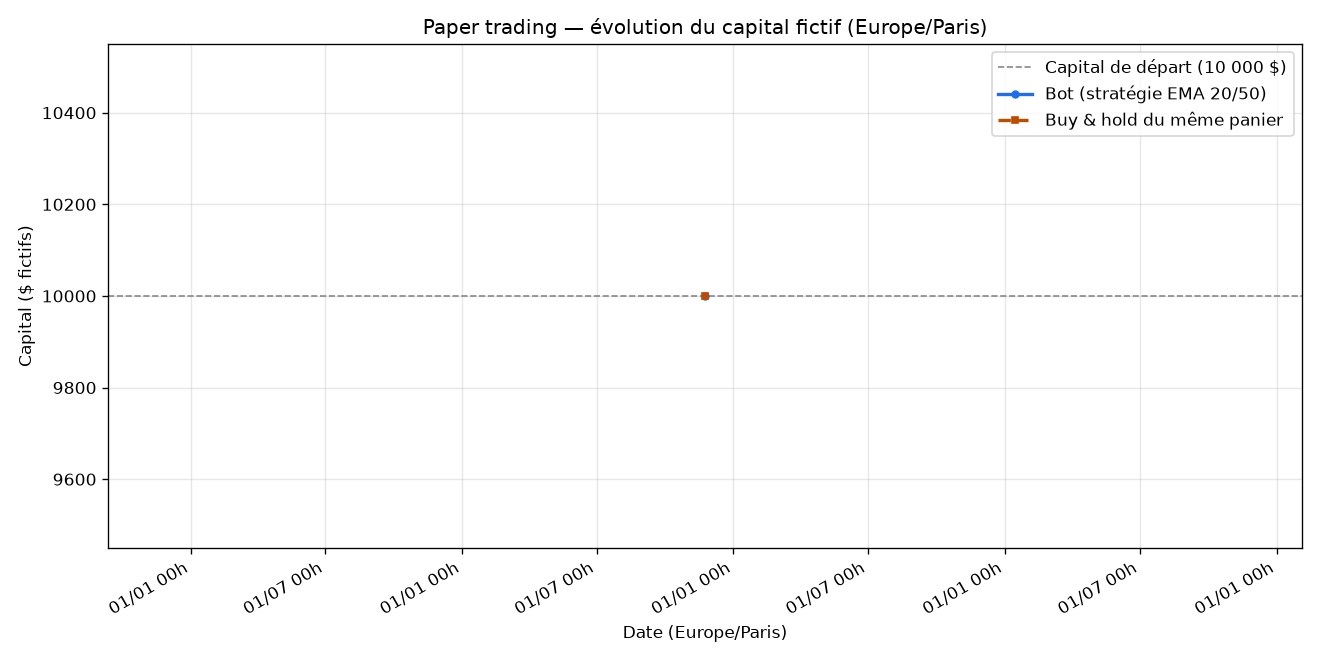
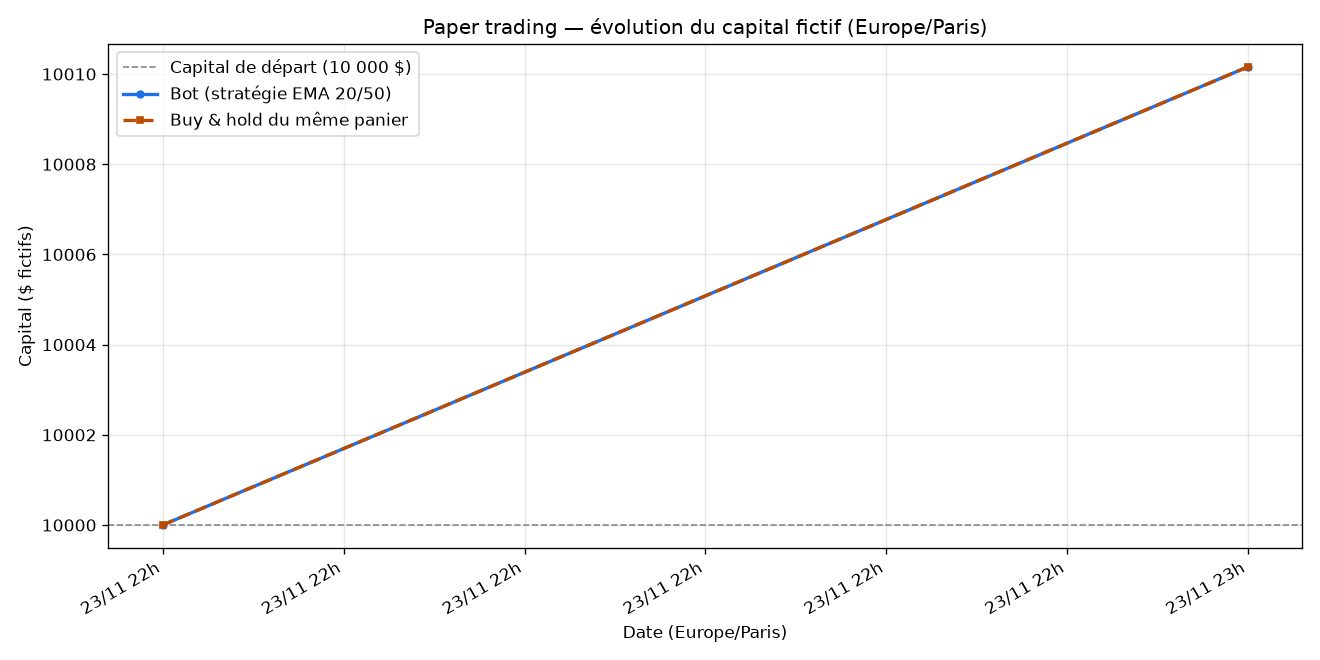
chore: update paper trading state [skip ci]

diff --git a/dashboard/index.html b/dashboard/index.html
@@ -138,7 +138,7 @@
 <body>
   <header>
     <h1>Paper bot — suivi du capital fictif</h1>
-    <p>Stratégie EMA 20/50, bougies 1h, long only · dernière bougie 2026-11-23T21:59:59+01:00 (Europe/Paris)</p>
+    <p>Stratégie EMA 20/50, bougies 1h, long only · dernière bougie 2026-11-23T22:59:59+01:00 (Europe/Paris)</p>
   </header>
   <div class="banner">
     Argent 100 % fictif — aucun compte, aucun ordre réel, aucune clé API.
@@ -148,18 +148,18 @@
     <section class="kpis">
       <div class="card">
         <p class="label">Capital actuel</p>
-        <p class="value">10 000.00 $</p>
+        <p class="value">10 010.16 $</p>
         <p class="sub">sur 10 000.00 $ de départ</p>
       </div>
       <div class="card">
         <p class="label">P&amp;L du bot</p>
-        <p class="value neutral">+0.00 $</p>
-        <p class="sub neutral">+0.00 %</p>
+        <p class="value up">+10.16 $</p>
+        <p class="sub up">+0.10 %</p>
       </div>
       <div class="card">
         <p class="label">Buy &amp; hold (même panier)</p>
-        <p class="value">10 000.00 $</p>
-        <p class="sub neutral">+0.00 $ depuis le départ</p>
+        <p class="value">10 010.16 $</p>
+        <p class="sub up">+10.16 $ depuis le départ</p>
       </div>
       <div class="card">
         <p class="label">Bot vs buy &amp; hold</p>
@@ -170,7 +170,7 @@
 
     <section class="card" style="margin-bottom:18px">
       <h2>Évolution du capital vs buy-and-hold</h2>
-      <div class="chart-wrap"><svg viewBox="0 0 920 340" width="100%" role="img" aria-label="Courbe du capital fictif du bot vs buy-and-hold"><rect x="0" y="0" width="920" height="340" rx="12" fill="#ffffff"/><line x1="64" y1="288.0" x2="900" y2="288.0" stroke="#e4e8ec" stroke-width="1"/><line x1="64" y1="221.0" x2="900" y2="221.0" stroke="#e4e8ec" stroke-width="1"/><line x1="64" y1="154.0" x2="900" y2="154.0" stroke="#e4e8ec" stroke-width="1"/><line x1="64" y1="87.0" x2="900" y2="87.0" stroke="#e4e8ec" stroke-width="1"/><line x1="64" y1="20.0" x2="900" y2="20.0" stroke="#e4e8ec" stroke-width="1"/><line x1="64" y1="154.0" x2="900" y2="154.0" stroke="#8b95a0" stroke-width="1.2" stroke-dasharray="5 4"/><text x="54" y="288.0" text-anchor="end" dominant-baseline="middle" fill="#5c6770" font-size="11" font-family="system-ui sans-serif">9 994</text><text x="54" y="221.0" text-anchor="end" dominant-baseline="middle" fill="#5c6770" font-size="11" font-family="system-ui sans-serif">9 997</text><text x="54" y="154.0" text-anchor="end" dominant-baseline="middle" fill="#5c6770" font-size="11" font-family="system-ui sans-serif">10 000</text><text x="54" y="87.0" text-anchor="end" dominant-baseline="middle" fill="#5c6770" font-size="11" font-family="system-ui sans-serif">10 003</text><text x="54" y="20.0" text-anchor="end" dominant-baseline="middle" fill="#5c6770" font-size="11" font-family="system-ui sans-serif">10 006</text><path d="M482.0,154.0" fill="none" stroke="#bc4c00" stroke-width="2.2" stroke-dasharray="7 5"/><path d="M482.0,154.0" fill="none" stroke="#1f6feb" stroke-width="2.5"/><circle cx="482.0" cy="154.0" r="3.2" fill="#1f6feb"/><text x="482.0" y="322" text-anchor="middle" fill="#5c6770" font-size="11" font-family="system-ui,sans-serif">23/11 21h</text><g font-family="system-ui,sans-serif" font-size="12"><line x1="64" y1="334" x2="86" y2="334" stroke="#1f6feb" stroke-width="2.5"/><text x="92" y="338" fill="#1a2330">Bot (EMA 20/50)</text><line x1="224" y1="334" x2="246" y2="334" stroke="#bc4c00" stroke-width="2.5" stroke-dasharray="6 4"/><text x="252" y="338" fill="#1a2330">Buy &amp; hold du même panier</text><line x1="464" y1="334" x2="486" y2="334" stroke="#8b95a0" stroke-width="1.2" stroke-dasharray="5 4"/><text x="492" y="338" fill="#1a2330">Capital de départ (10 000 $)</text></g></svg></div>
+      <div class="chart-wrap"><svg viewBox="0 0 920 340" width="100%" role="img" aria-label="Courbe du capital fictif du bot vs buy-and-hold"><rect x="0" y="0" width="920" height="340" rx="12" fill="#ffffff"/><line x1="64" y1="288.0" x2="900" y2="288.0" stroke="#e4e8ec" stroke-width="1"/><line x1="64" y1="221.0" x2="900" y2="221.0" stroke="#e4e8ec" stroke-width="1"/><line x1="64" y1="154.0" x2="900" y2="154.0" stroke="#e4e8ec" stroke-width="1"/><line x1="64" y1="87.0" x2="900" y2="87.0" stroke="#e4e8ec" stroke-width="1"/><line x1="64" y1="20.0" x2="900" y2="20.0" stroke="#e4e8ec" stroke-width="1"/><line x1="64" y1="262.1" x2="900" y2="262.1" stroke="#8b95a0" stroke-width="1.2" stroke-dasharray="5 4"/><text x="54" y="288.0" text-anchor="end" dominant-baseline="middle" fill="#5c6770" font-size="11" font-family="system-ui sans-serif">9 999</text><text x="54" y="221.0" text-anchor="end" dominant-baseline="middle" fill="#5c6770" font-size="11" font-family="system-ui sans-serif">10 002</text><text x="54" y="154.0" text-anchor="end" dominant-baseline="middle" fill="#5c6770" font-size="11" font-family="system-ui sans-serif">10 005</text><text x="54" y="87.0" text-anchor="end" dominant-baseline="middle" fill="#5c6770" font-size="11" font-family="system-ui sans-serif">10 008</text><text x="54" y="20.0" text-anchor="end" dominant-baseline="middle" fill="#5c6770" font-size="11" font-family="system-ui sans-serif">10 011</text><path d="M64.0,262.1 L900.0,45.9" fill="none" stroke="#bc4c00" stroke-width="2.2" stroke-dasharray="7 5"/><path d="M64.0,262.1 L900.0,45.9" fill="none" stroke="#1f6feb" stroke-width="2.5"/><circle cx="64.0" cy="262.1" r="3.2" fill="#1f6feb"/><circle cx="900.0" cy="45.9" r="3.2" fill="#1f6feb"/><text x="64.0" y="322" text-anchor="middle" fill="#5c6770" font-size="11" font-family="system-ui,sans-serif">23/11 21h</text><text x="900.0" y="322" text-anchor="middle" fill="#5c6770" font-size="11" font-family="system-ui,sans-serif">23/11 22h</text><g font-family="system-ui,sans-serif" font-size="12"><line x1="64" y1="334" x2="86" y2="334" stroke="#1f6feb" stroke-width="2.5"/><text x="92" y="338" fill="#1a2330">Bot (EMA 20/50)</text><line x1="224" y1="334" x2="246" y2="334" stroke="#bc4c00" stroke-width="2.5" stroke-dasharray="6 4"/><text x="252" y="338" fill="#1a2330">Buy &amp; hold du même panier</text><line x1="464" y1="334" x2="486" y2="334" stroke="#8b95a0" stroke-width="1.2" stroke-dasharray="5 4"/><text x="492" y="338" fill="#1a2330">Capital de départ (10 000 $)</text></g></svg></div>
     </section>
 
     <section class="card" style="margin-bottom:18px">
@@ -190,7 +190,7 @@
             </tr>
           </thead>
           <tbody>
-            <tr><td><strong>BTCUSDT</strong></td><td><span class='pill open'>En position</span></td><td class='num'>61236.010000</td><td class='num'>0.01633026</td><td class='num'>1 000.00 $</td><td class='num up'>+0.00 $</td><td class='num up'>+0.00 %</td><td class='muted'>Entrée 61236.010000 le 2026-11-23T21:59:59+01:00</td></tr><tr><td><strong>ETHUSDT</strong></td><td><span class='pill open'>En position</span></td><td class='num'>1725.360000</td><td class='num'>0.57958919</td><td class='num'>1 000.00 $</td><td class='num down'>-0.00 $</td><td class='num down'>-0.00 %</td><td class='muted'>Entrée 1725.360000 le 2026-11-23T21:59:59+01:00</td></tr><tr><td><strong>SOLUSDT</strong></td><td><span class='pill open'>En position</span></td><td class='num'>72.820000</td><td class='num'>13.73249107</td><td class='num'>1 000.00 $</td><td class='num neutral'>+0.00 $</td><td class='num neutral'>+0.00 %</td><td class='muted'>Entrée 72.820000 le 2026-11-23T21:59:59+01:00</td></tr><tr><td><strong>BNBUSDT</strong></td><td><span class='pill open'>En position</span></td><td class='num'>557.030000</td><td class='num'>1.79523545</td><td class='num'>1 000.00 $</td><td class='num neutral'>+0.00 $</td><td class='num neutral'>+0.00 %</td><td class='muted'>Entrée 557.030000 le 2026-11-23T21:59:59+01:00</td></tr><tr><td><strong>XRPUSDT</strong></td><td><span class='pill open'>En position</span></td><td class='num'>0.937400</td><td class='num'>1066.78045658</td><td class='num'>1 000.00 $</td><td class='num neutral'>+0.00 $</td><td class='num neutral'>+0.00 %</td><td class='muted'>Entrée 0.937400 le 2026-11-23T21:59:59+01:00</td></tr><tr><td><strong>ADAUSDT</strong></td><td><span class='pill open'>En position</span></td><td class='num'>0.147600</td><td class='num'>6775.06775068</td><td class='num'>1 000.00 $</td><td class='num neutral'>+0.00 $</td><td class='num neutral'>+0.00 %</td><td class='muted'>Entrée 0.147600 le 2026-11-23T21:59:59+01:00</td></tr><tr><td><strong>DOGEUSDT</strong></td><td><span class='pill open'>En position</span></td><td class='num'>0.056590</td><td class='num'>17670.96660187</td><td class='num'>1 000.00 $</td><td class='num neutral'>+0.00 $</td><td class='num neutral'>+0.00 %</td><td class='muted'>Entrée 0.056590 le 2026-11-23T21:59:59+01:00</td></tr><tr><td><strong>AVAXUSDT</strong></td><td><span class='pill open'>En position</span></td><td class='num'>6.793000</td><td class='num'>147.21036361</td><td class='num'>1 000.00 $</td><td class='num neutral'>+0.00 $</td><td class='num neutral'>+0.00 %</td><td class='muted'>Entrée 6.793000 le 2026-11-23T21:59:59+01:00</td></tr><tr><td><strong>LINKUSDT</strong></td><td><span class='pill open'>En position</span></td><td class='num'>8.987000</td><td class='num'>111.27183710</td><td class='num'>1 000.00 $</td><td class='num neutral'>+0.00 $</td><td class='num neutral'>+0.00 %</td><td class='muted'>Entrée 8.987000 le 2026-11-23T21:59:59+01:00</td></tr><tr><td><strong>DOTUSDT</strong></td><td><span class='pill open'>En position</span></td><td class='num'>0.685000</td><td class='num'>1459.85401460</td><td class='num'>1 000.00 $</td><td class='num neutral'>+0.00 $</td><td class='num neutral'>+0.00 %</td><td class='muted'>Entrée 0.685000 le 2026-11-23T21:59:59+01:00</td></tr>
+            <tr><td><strong>BTCUSDT</strong></td><td><span class='pill open'>En position</span></td><td class='num'>61342.540000</td><td class='num'>0.01633026</td><td class='num'>1 001.74 $</td><td class='num up'>+1.74 $</td><td class='num up'>+0.17 %</td><td class='muted'>Entrée 61236.010000 le 2026-11-23T21:59:59+01:00</td></tr><tr><td><strong>ETHUSDT</strong></td><td><span class='pill open'>En position</span></td><td class='num'>1724.290000</td><td class='num'>0.57958919</td><td class='num'>999.38 $</td><td class='num down'>-0.62 $</td><td class='num down'>-0.06 %</td><td class='muted'>Entrée 1725.360000 le 2026-11-23T21:59:59+01:00</td></tr><tr><td><strong>SOLUSDT</strong></td><td><span class='pill open'>En position</span></td><td class='num'>72.390000</td><td class='num'>13.73249107</td><td class='num'>994.10 $</td><td class='num down'>-5.90 $</td><td class='num down'>-0.59 %</td><td class='muted'>Entrée 72.820000 le 2026-11-23T21:59:59+01:00</td></tr><tr><td><strong>BNBUSDT</strong></td><td><span class='pill open'>En position</span></td><td class='num'>557.610000</td><td class='num'>1.79523545</td><td class='num'>1 001.04 $</td><td class='num up'>+1.04 $</td><td class='num up'>+0.10 %</td><td class='muted'>Entrée 557.030000 le 2026-11-23T21:59:59+01:00</td></tr><tr><td><strong>XRPUSDT</strong></td><td><span class='pill open'>En position</span></td><td class='num'>0.942600</td><td class='num'>1066.78045658</td><td class='num'>1 005.55 $</td><td class='num up'>+5.55 $</td><td class='num up'>+0.55 %</td><td class='muted'>Entrée 0.937400 le 2026-11-23T21:59:59+01:00</td></tr><tr><td><strong>ADAUSDT</strong></td><td><span class='pill open'>En position</span></td><td class='num'>0.148120</td><td class='num'>6775.06775068</td><td class='num'>1 003.52 $</td><td class='num up'>+3.52 $</td><td class='num up'>+0.35 %</td><td class='muted'>Entrée 0.147600 le 2026-11-23T21:59:59+01:00</td></tr><tr><td><strong>DOGEUSDT</strong></td><td><span class='pill open'>En position</span></td><td class='num'>0.056590</td><td class='num'>17670.96660187</td><td class='num'>1 000.00 $</td><td class='num neutral'>+0.00 $</td><td class='num neutral'>+0.00 %</td><td class='muted'>Entrée 0.056590 le 2026-11-23T21:59:59+01:00</td></tr><tr><td><strong>AVAXUSDT</strong></td><td><span class='pill open'>En position</span></td><td class='num'>6.816000</td><td class='num'>147.21036361</td><td class='num'>1 003.39 $</td><td class='num up'>+3.39 $</td><td class='num up'>+0.34 %</td><td class='muted'>Entrée 6.793000 le 2026-11-23T21:59:59+01:00</td></tr><tr><td><strong>LINKUSDT</strong></td><td><span class='pill open'>En position</span></td><td class='num'>9.000000</td><td class='num'>111.27183710</td><td class='num'>1 001.45 $</td><td class='num up'>+1.45 $</td><td class='num up'>+0.14 %</td><td class='muted'>Entrée 8.987000 le 2026-11-23T21:59:59+01:00</td></tr><tr><td><strong>DOTUSDT</strong></td><td><span class='pill open'>En position</span></td><td class='num'>0.685000</td><td class='num'>1459.85401460</td><td class='num'>1 000.00 $</td><td class='num neutral'>+0.00 $</td><td class='num neutral'>+0.00 %</td><td class='muted'>Entrée 0.685000 le 2026-11-23T21:59:59+01:00</td></tr>
           </tbody>
         </table>
       </div>
@@ -230,11 +230,11 @@
         </div>
         <div>
           <dt>Dernière bougie traitée</dt>
-          <dd>2026-11-23T21:59:59+01:00</dd>
+          <dd>2026-11-23T22:59:59+01:00</dd>
         </div>
         <div>
           <dt>Dernier passage du bot</dt>
-          <dd>2026-11-23T22:40:13+01:00</dd>
+          <dd>2026-11-23T23:01:03+01:00</dd>
         </div>
         <div>
           <dt>Source des prix</dt>
@@ -246,7 +246,7 @@
         </div>
       </dl>
       <p class="muted" style="margin:8px 0 0">Moyennes mobiles exponentielles 20 et 50 sur bougies d&#x27;une heure, positions longues uniquement, sans effet de levier. Achat si EMA20 &gt; EMA50 et qu&#x27;on n&#x27;est pas déjà investi (y compris si la tendance est déjà haussière, pas seulement sur un nouveau croisement). Vente si EMA20 &lt; EMA50. Sans frais (0 %). Décisions prises à la clôture de la bougie 1h, au prix de clôture.</p>
-      <p class="muted" style="margin:8px 0 0">api.binance.com renvoyait HTTP 451 (restriction géographique) ; repli sur api.binance.us, endpoint public /api/v3/klines, sans clé API.</p>
+      <p class="muted" style="margin:8px 0 0">api.binance.com renvoyait HTTP 451 (restriction géographique) ; source principale : api.binance.us, endpoint public /api/v3/klines, sans clé API. Repli : api.binance.com, puis Kraken public OHLC (intervalle 60 min).</p>
     </section>
 
     <footer>

diff --git a/docs/index.html b/docs/index.html
@@ -138,7 +138,7 @@
 <body>
   <header>
     <h1>Paper bot — suivi du capital fictif</h1>
-    <p>Stratégie EMA 20/50, bougies 1h, long only · dernière bougie 2026-11-23T21:59:59+01:00 (Europe/Paris)</p>
+    <p>Stratégie EMA 20/50, bougies 1h, long only · dernière bougie 2026-11-23T22:59:59+01:00 (Europe/Paris)</p>
   </header>
   <div class="banner">
     Argent 100 % fictif — aucun compte, aucun ordre réel, aucune clé API.
@@ -148,18 +148,18 @@
     <section class="kpis">
       <div class="card">
         <p class="label">Capital actuel</p>
-        <p class="value">10 000.00 $</p>
+        <p class="value">10 010.16 $</p>
         <p class="sub">sur 10 000.00 $ de départ</p>
       </div>
       <div class="card">
         <p class="label">P&amp;L du bot</p>
-        <p class="value neutral">+0.00 $</p>
-        <p class="sub neutral">+0.00 %</p>
+        <p class="value up">+10.16 $</p>
+        <p class="sub up">+0.10 %</p>
       </div>
       <div class="card">
         <p class="label">Buy &amp; hold (même panier)</p>
-        <p class="value">10 000.00 $</p>
-        <p class="sub neutral">+0.00 $ depuis le départ</p>
+        <p class="value">10 010.16 $</p>
+        <p class="sub up">+10.16 $ depuis le départ</p>
       </div>
       <div class="card">
         <p class="label">Bot vs buy &amp; hold</p>
@@ -170,7 +170,7 @@
 
     <section class="card" style="margin-bottom:18px">
       <h2>Évolution du capital vs buy-and-hold</h2>
-      <div class="chart-wrap"><svg viewBox="0 0 920 340" width="100%" role="img" aria-label="Courbe du capital fictif du bot vs buy-and-hold"><rect x="0" y="0" width="920" height="340" rx="12" fill="#ffffff"/><line x1="64" y1="288.0" x2="900" y2="288.0" stroke="#e4e8ec" stroke-width="1"/><line x1="64" y1="221.0" x2="900" y2="221.0" stroke="#e4e8ec" stroke-width="1"/><line x1="64" y1="154.0" x2="900" y2="154.0" stroke="#e4e8ec" stroke-width="1"/><line x1="64" y1="87.0" x2="900" y2="87.0" stroke="#e4e8ec" stroke-width="1"/><line x1="64" y1="20.0" x2="900" y2="20.0" stroke="#e4e8ec" stroke-width="1"/><line x1="64" y1="154.0" x2="900" y2="154.0" stroke="#8b95a0" stroke-width="1.2" stroke-dasharray="5 4"/><text x="54" y="288.0" text-anchor="end" dominant-baseline="middle" fill="#5c6770" font-size="11" font-family="system-ui sans-serif">9 994</text><text x="54" y="221.0" text-anchor="end" dominant-baseline="middle" fill="#5c6770" font-size="11" font-family="system-ui sans-serif">9 997</text><text x="54" y="154.0" text-anchor="end" dominant-baseline="middle" fill="#5c6770" font-size="11" font-family="system-ui sans-serif">10 000</text><text x="54" y="87.0" text-anchor="end" dominant-baseline="middle" fill="#5c6770" font-size="11" font-family="system-ui sans-serif">10 003</text><text x="54" y="20.0" text-anchor="end" dominant-baseline="middle" fill="#5c6770" font-size="11" font-family="system-ui sans-serif">10 006</text><path d="M482.0,154.0" fill="none" stroke="#bc4c00" stroke-width="2.2" stroke-dasharray="7 5"/><path d="M482.0,154.0" fill="none" stroke="#1f6feb" stroke-width="2.5"/><circle cx="482.0" cy="154.0" r="3.2" fill="#1f6feb"/><text x="482.0" y="322" text-anchor="middle" fill="#5c6770" font-size="11" font-family="system-ui,sans-serif">23/11 21h</text><g font-family="system-ui,sans-serif" font-size="12"><line x1="64" y1="334" x2="86" y2="334" stroke="#1f6feb" stroke-width="2.5"/><text x="92" y="338" fill="#1a2330">Bot (EMA 20/50)</text><line x1="224" y1="334" x2="246" y2="334" stroke="#bc4c00" stroke-width="2.5" stroke-dasharray="6 4"/><text x="252" y="338" fill="#1a2330">Buy &amp; hold du même panier</text><line x1="464" y1="334" x2="486" y2="334" stroke="#8b95a0" stroke-width="1.2" stroke-dasharray="5 4"/><text x="492" y="338" fill="#1a2330">Capital de départ (10 000 $)</text></g></svg></div>
+      <div class="chart-wrap"><svg viewBox="0 0 920 340" width="100%" role="img" aria-label="Courbe du capital fictif du bot vs buy-and-hold"><rect x="0" y="0" width="920" height="340" rx="12" fill="#ffffff"/><line x1="64" y1="288.0" x2="900" y2="288.0" stroke="#e4e8ec" stroke-width="1"/><line x1="64" y1="221.0" x2="900" y2="221.0" stroke="#e4e8ec" stroke-width="1"/><line x1="64" y1="154.0" x2="900" y2="154.0" stroke="#e4e8ec" stroke-width="1"/><line x1="64" y1="87.0" x2="900" y2="87.0" stroke="#e4e8ec" stroke-width="1"/><line x1="64" y1="20.0" x2="900" y2="20.0" stroke="#e4e8ec" stroke-width="1"/><line x1="64" y1="262.1" x2="900" y2="262.1" stroke="#8b95a0" stroke-width="1.2" stroke-dasharray="5 4"/><text x="54" y="288.0" text-anchor="end" dominant-baseline="middle" fill="#5c6770" font-size="11" font-family="system-ui sans-serif">9 999</text><text x="54" y="221.0" text-anchor="end" dominant-baseline="middle" fill="#5c6770" font-size="11" font-family="system-ui sans-serif">10 002</text><text x="54" y="154.0" text-anchor="end" dominant-baseline="middle" fill="#5c6770" font-size="11" font-family="system-ui sans-serif">10 005</text><text x="54" y="87.0" text-anchor="end" dominant-baseline="middle" fill="#5c6770" font-size="11" font-family="system-ui sans-serif">10 008</text><text x="54" y="20.0" text-anchor="end" dominant-baseline="middle" fill="#5c6770" font-size="11" font-family="system-ui sans-serif">10 011</text><path d="M64.0,262.1 L900.0,45.9" fill="none" stroke="#bc4c00" stroke-width="2.2" stroke-dasharray="7 5"/><path d="M64.0,262.1 L900.0,45.9" fill="none" stroke="#1f6feb" stroke-width="2.5"/><circle cx="64.0" cy="262.1" r="3.2" fill="#1f6feb"/><circle cx="900.0" cy="45.9" r="3.2" fill="#1f6feb"/><text x="64.0" y="322" text-anchor="middle" fill="#5c6770" font-size="11" font-family="system-ui,sans-serif">23/11 21h</text><text x="900.0" y="322" text-anchor="middle" fill="#5c6770" font-size="11" font-family="system-ui,sans-serif">23/11 22h</text><g font-family="system-ui,sans-serif" font-size="12"><line x1="64" y1="334" x2="86" y2="334" stroke="#1f6feb" stroke-width="2.5"/><text x="92" y="338" fill="#1a2330">Bot (EMA 20/50)</text><line x1="224" y1="334" x2="246" y2="334" stroke="#bc4c00" stroke-width="2.5" stroke-dasharray="6 4"/><text x="252" y="338" fill="#1a2330">Buy &amp; hold du même panier</text><line x1="464" y1="334" x2="486" y2="334" stroke="#8b95a0" stroke-width="1.2" stroke-dasharray="5 4"/><text x="492" y="338" fill="#1a2330">Capital de départ (10 000 $)</text></g></svg></div>
     </section>
 
     <section class="card" style="margin-bottom:18px">
@@ -190,7 +190,7 @@
             </tr>
           </thead>
           <tbody>
-            <tr><td><strong>BTCUSDT</strong></td><td><span class='pill open'>En position</span></td><td class='num'>61236.010000</td><td class='num'>0.01633026</td><td class='num'>1 000.00 $</td><td class='num up'>+0.00 $</td><td class='num up'>+0.00 %</td><td class='muted'>Entrée 61236.010000 le 2026-11-23T21:59:59+01:00</td></tr><tr><td><strong>ETHUSDT</strong></td><td><span class='pill open'>En position</span></td><td class='num'>1725.360000</td><td class='num'>0.57958919</td><td class='num'>1 000.00 $</td><td class='num down'>-0.00 $</td><td class='num down'>-0.00 %</td><td class='muted'>Entrée 1725.360000 le 2026-11-23T21:59:59+01:00</td></tr><tr><td><strong>SOLUSDT</strong></td><td><span class='pill open'>En position</span></td><td class='num'>72.820000</td><td class='num'>13.73249107</td><td class='num'>1 000.00 $</td><td class='num neutral'>+0.00 $</td><td class='num neutral'>+0.00 %</td><td class='muted'>Entrée 72.820000 le 2026-11-23T21:59:59+01:00</td></tr><tr><td><strong>BNBUSDT</strong></td><td><span class='pill open'>En position</span></td><td class='num'>557.030000</td><td class='num'>1.79523545</td><td class='num'>1 000.00 $</td><td class='num neutral'>+0.00 $</td><td class='num neutral'>+0.00 %</td><td class='muted'>Entrée 557.030000 le 2026-11-23T21:59:59+01:00</td></tr><tr><td><strong>XRPUSDT</strong></td><td><span class='pill open'>En position</span></td><td class='num'>0.937400</td><td class='num'>1066.78045658</td><td class='num'>1 000.00 $</td><td class='num neutral'>+0.00 $</td><td class='num neutral'>+0.00 %</td><td class='muted'>Entrée 0.937400 le 2026-11-23T21:59:59+01:00</td></tr><tr><td><strong>ADAUSDT</strong></td><td><span class='pill open'>En position</span></td><td class='num'>0.147600</td><td class='num'>6775.06775068</td><td class='num'>1 000.00 $</td><td class='num neutral'>+0.00 $</td><td class='num neutral'>+0.00 %</td><td class='muted'>Entrée 0.147600 le 2026-11-23T21:59:59+01:00</td></tr><tr><td><strong>DOGEUSDT</strong></td><td><span class='pill open'>En position</span></td><td class='num'>0.056590</td><td class='num'>17670.96660187</td><td class='num'>1 000.00 $</td><td class='num neutral'>+0.00 $</td><td class='num neutral'>+0.00 %</td><td class='muted'>Entrée 0.056590 le 2026-11-23T21:59:59+01:00</td></tr><tr><td><strong>AVAXUSDT</strong></td><td><span class='pill open'>En position</span></td><td class='num'>6.793000</td><td class='num'>147.21036361</td><td class='num'>1 000.00 $</td><td class='num neutral'>+0.00 $</td><td class='num neutral'>+0.00 %</td><td class='muted'>Entrée 6.793000 le 2026-11-23T21:59:59+01:00</td></tr><tr><td><strong>LINKUSDT</strong></td><td><span class='pill open'>En position</span></td><td class='num'>8.987000</td><td class='num'>111.27183710</td><td class='num'>1 000.00 $</td><td class='num neutral'>+0.00 $</td><td class='num neutral'>+0.00 %</td><td class='muted'>Entrée 8.987000 le 2026-11-23T21:59:59+01:00</td></tr><tr><td><strong>DOTUSDT</strong></td><td><span class='pill open'>En position</span></td><td class='num'>0.685000</td><td class='num'>1459.85401460</td><td class='num'>1 000.00 $</td><td class='num neutral'>+0.00 $</td><td class='num neutral'>+0.00 %</td><td class='muted'>Entrée 0.685000 le 2026-11-23T21:59:59+01:00</td></tr>
+            <tr><td><strong>BTCUSDT</strong></td><td><span class='pill open'>En position</span></td><td class='num'>61342.540000</td><td class='num'>0.01633026</td><td class='num'>1 001.74 $</td><td class='num up'>+1.74 $</td><td class='num up'>+0.17 %</td><td class='muted'>Entrée 61236.010000 le 2026-11-23T21:59:59+01:00</td></tr><tr><td><strong>ETHUSDT</strong></td><td><span class='pill open'>En position</span></td><td class='num'>1724.290000</td><td class='num'>0.57958919</td><td class='num'>999.38 $</td><td class='num down'>-0.62 $</td><td class='num down'>-0.06 %</td><td class='muted'>Entrée 1725.360000 le 2026-11-23T21:59:59+01:00</td></tr><tr><td><strong>SOLUSDT</strong></td><td><span class='pill open'>En position</span></td><td class='num'>72.390000</td><td class='num'>13.73249107</td><td class='num'>994.10 $</td><td class='num down'>-5.90 $</td><td class='num down'>-0.59 %</td><td class='muted'>Entrée 72.820000 le 2026-11-23T21:59:59+01:00</td></tr><tr><td><strong>BNBUSDT</strong></td><td><span class='pill open'>En position</span></td><td class='num'>557.610000</td><td class='num'>1.79523545</td><td class='num'>1 001.04 $</td><td class='num up'>+1.04 $</td><td class='num up'>+0.10 %</td><td class='muted'>Entrée 557.030000 le 2026-11-23T21:59:59+01:00</td></tr><tr><td><strong>XRPUSDT</strong></td><td><span class='pill open'>En position</span></td><td class='num'>0.942600</td><td class='num'>1066.78045658</td><td class='num'>1 005.55 $</td><td class='num up'>+5.55 $</td><td class='num up'>+0.55 %</td><td class='muted'>Entrée 0.937400 le 2026-11-23T21:59:59+01:00</td></tr><tr><td><strong>ADAUSDT</strong></td><td><span class='pill open'>En position</span></td><td class='num'>0.148120</td><td class='num'>6775.06775068</td><td class='num'>1 003.52 $</td><td class='num up'>+3.52 $</td><td class='num up'>+0.35 %</td><td class='muted'>Entrée 0.147600 le 2026-11-23T21:59:59+01:00</td></tr><tr><td><strong>DOGEUSDT</strong></td><td><span class='pill open'>En position</span></td><td class='num'>0.056590</td><td class='num'>17670.96660187</td><td class='num'>1 000.00 $</td><td class='num neutral'>+0.00 $</td><td class='num neutral'>+0.00 %</td><td class='muted'>Entrée 0.056590 le 2026-11-23T21:59:59+01:00</td></tr><tr><td><strong>AVAXUSDT</strong></td><td><span class='pill open'>En position</span></td><td class='num'>6.816000</td><td class='num'>147.21036361</td><td class='num'>1 003.39 $</td><td class='num up'>+3.39 $</td><td class='num up'>+0.34 %</td><td class='muted'>Entrée 6.793000 le 2026-11-23T21:59:59+01:00</td></tr><tr><td><strong>LINKUSDT</strong></td><td><span class='pill open'>En position</span></td><td class='num'>9.000000</td><td class='num'>111.27183710</td><td class='num'>1 001.45 $</td><td class='num up'>+1.45 $</td><td class='num up'>+0.14 %</td><td class='muted'>Entrée 8.987000 le 2026-11-23T21:59:59+01:00</td></tr><tr><td><strong>DOTUSDT</strong></td><td><span class='pill open'>En position</span></td><td class='num'>0.685000</td><td class='num'>1459.85401460</td><td class='num'>1 000.00 $</td><td class='num neutral'>+0.00 $</td><td class='num neutral'>+0.00 %</td><td class='muted'>Entrée 0.685000 le 2026-11-23T21:59:59+01:00</td></tr>
           </tbody>
         </table>
       </div>
@@ -230,11 +230,11 @@
         </div>
         <div>
           <dt>Dernière bougie traitée</dt>
-          <dd>2026-11-23T21:59:59+01:00</dd>
+          <dd>2026-11-23T22:59:59+01:00</dd>
         </div>
         <div>
           <dt>Dernier passage du bot</dt>
-          <dd>2026-11-23T22:40:13+01:00</dd>
+          <dd>2026-11-23T23:01:03+01:00</dd>
         </div>
         <div>
           <dt>Source des prix</dt>
@@ -246,7 +246,7 @@
         </div>
       </dl>
       <p class="muted" style="margin:8px 0 0">Moyennes mobiles exponentielles 20 et 50 sur bougies d&#x27;une heure, positions longues uniquement, sans effet de levier. Achat si EMA20 &gt; EMA50 et qu&#x27;on n&#x27;est pas déjà investi (y compris si la tendance est déjà haussière, pas seulement sur un nouveau croisement). Vente si EMA20 &lt; EMA50. Sans frais (0 %). Décisions prises à la clôture de la bougie 1h, au prix de clôture.</p>
-      <p class="muted" style="margin:8px 0 0">api.binance.com renvoyait HTTP 451 (restriction géographique) ; repli sur api.binance.us, endpoint public /api/v3/klines, sans clé API.</p>
+      <p class="muted" style="margin:8px 0 0">api.binance.com renvoyait HTTP 451 (restriction géographique) ; source principale : api.binance.us, endpoint public /api/v3/klines, sans clé API. Repli : api.binance.com, puis Kraken public OHLC (intervalle 60 min).</p>
     </section>
 
     <footer>
